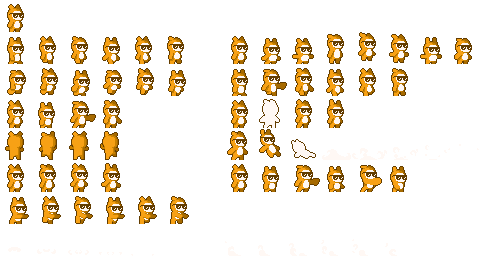
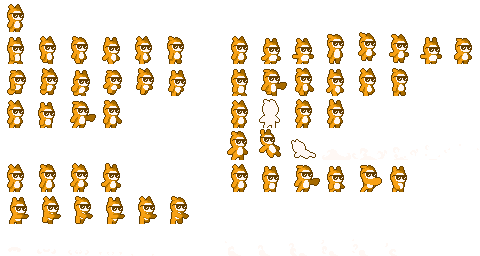
Bundle the new pet sheets so each drawn accessory shows its own art.
Вид 3 green still has only the hat, so that color still borrows it for the other two accessories.

Changed region(s): [[0.0, 0.5, 0.25, 0.625]]

diff --git a/src/ui/pet/petSprites.generated.ts b/src/ui/pet/petSprites.generated.ts
@@ -52,6 +52,10 @@ export const PET_SHEETS: Readonly<Record<string, PetSheet>> = {
     atlas: require("../../../assets/pets/atlas/sp1_c1_a2.png"),
     poses: require("../../../assets/pets/poses/sp1_c1_a2.png"),
   },
+  "sp1/c1/a3": {
+    atlas: require("../../../assets/pets/atlas/sp1_c1_a3.png"),
+    poses: require("../../../assets/pets/poses/sp1_c1_a3.png"),
+  },
   "sp1/c3/a1": {
     atlas: require("../../../assets/pets/atlas/sp1_c3_a1.png"),
     poses: require("../../../assets/pets/poses/sp1_c3_a1.png"),
@@ -60,6 +64,10 @@ export const PET_SHEETS: Readonly<Record<string, PetSheet>> = {
     atlas: require("../../../assets/pets/atlas/sp1_c3_a2.png"),
     poses: require("../../../assets/pets/poses/sp1_c3_a2.png"),
   },
+  "sp1/c3/a3": {
+    atlas: require("../../../assets/pets/atlas/sp1_c3_a3.png"),
+    poses: require("../../../assets/pets/poses/sp1_c3_a3.png"),
+  },
   "sp1/c2/a1": {
     atlas: require("../../../assets/pets/atlas/sp1_c2_a1.png"),
     poses: require("../../../assets/pets/poses/sp1_c2_a1.png"),
@@ -67,6 +75,14 @@ export const PET_SHEETS: Readonly<Record<string, PetSheet>> = {
   "sp1/c2/a2": {
     atlas: require("../../../assets/pets/atlas/sp1_c2_a2.png"),
     poses: require("../../../assets/pets/poses/sp1_c2_a2.png"),
+  },
+  "sp1/c2/a3": {
+    atlas: require("../../../assets/pets/atlas/sp1_c2_a3.png"),
+    poses: require("../../../assets/pets/poses/sp1_c2_a3.png"),
+  },
+  "sp2/c1/a1": {
+    atlas: require("../../../assets/pets/atlas/sp2_c1_a1.png"),
+    poses: require("../../../assets/pets/poses/sp2_c1_a1.png"),
   },
   "sp2/c1/a2": {
     atlas: require("../../../assets/pets/atlas/sp2_c1_a2.png"),
@@ -88,6 +104,10 @@ export const PET_SHEETS: Readonly<Record<string, PetSheet>> = {
     atlas: require("../../../assets/pets/atlas/sp2_c3_a3.png"),
     poses: require("../../../assets/pets/poses/sp2_c3_a3.png"),
   },
+  "sp2/c2/a1": {
+    atlas: require("../../../assets/pets/atlas/sp2_c2_a1.png"),
+    poses: require("../../../assets/pets/poses/sp2_c2_a1.png"),
+  },
   "sp2/c2/a2": {
     atlas: require("../../../assets/pets/atlas/sp2_c2_a2.png"),
     poses: require("../../../assets/pets/poses/sp2_c2_a2.png"),
@@ -95,6 +115,14 @@ export const PET_SHEETS: Readonly<Record<string, PetSheet>> = {
   "sp2/c2/a3": {
     atlas: require("../../../assets/pets/atlas/sp2_c2_a3.png"),
     poses: require("../../../assets/pets/poses/sp2_c2_a3.png"),
+  },
+  "sp3/c1/a1": {
+    atlas: require("../../../assets/pets/atlas/sp3_c1_a1.png"),
+    poses: require("../../../assets/pets/poses/sp3_c1_a1.png"),
+  },
+  "sp3/c1/a2": {
+    atlas: require("../../../assets/pets/atlas/sp3_c1_a2.png"),
+    poses: require("../../../assets/pets/poses/sp3_c1_a2.png"),
   },
   "sp3/c1/a3": {
     atlas: require("../../../assets/pets/atlas/sp3_c1_a3.png"),
@@ -107,6 +135,10 @@ export const PET_SHEETS: Readonly<Record<string, PetSheet>> = {
   "sp3/c2/a1": {
     atlas: require("../../../assets/pets/atlas/sp3_c2_a1.png"),
     poses: require("../../../assets/pets/poses/sp3_c2_a1.png"),
+  },
+  "sp3/c2/a2": {
+    atlas: require("../../../assets/pets/atlas/sp3_c2_a2.png"),
+    poses: require("../../../assets/pets/poses/sp3_c2_a2.png"),
   },
   "sp3/c2/a3": {
     atlas: require("../../../assets/pets/atlas/sp3_c2_a3.png"),

diff --git a/src/ui/__tests__/petVariants.test.ts b/src/ui/__tests__/petVariants.test.ts
@@ -41,20 +41,25 @@ describe("resolvePetVariant", () => {
   });
 
   it("resolves every species × color × accessory to a sheet that is bundled", () => {
+    const borrowed: string[] = [];
     for (const species of SPECIES_KEYS) {
       for (const color of COLOR_KEYS) {
         for (const accessory of ACCESSORY_KEYS) {
-          const resolved = resolvePetVariant({ species, color, accessory }, DRAWN_VARIANTS);
+          const requested = { species, color, accessory };
+          const resolved = resolvePetVariant(requested, DRAWN_VARIANTS);
           expect(PET_SHEETS[variantKey(resolved)]).toBeDefined();
-          // Andrei drew every species × color in some form, so the look never changes species or color.
+          // Every species × color is drawn in some form, so the look never changes species or color.
           expect(resolved).toMatchObject({ species, color });
+          if (variantKey(resolved) !== variantKey(requested)) borrowed.push(variantKey(requested));
         }
       }
     }
+    // Вид 3 green still has only the hat sheet.
+    expect(borrowed).toEqual(["sp3/c3/a1", "sp3/c3/a2"]);
   });
 
-  it("bundles all 17 drawn looks with the animations the pet plays", () => {
-    expect(DRAWN_VARIANTS.size).toBe(17);
+  it("bundles all 25 drawn looks with the animations the pet plays", () => {
+    expect(DRAWN_VARIANTS.size).toBe(25);
     expect(PET_ATLAS_LAYOUT).toMatchObject({
       idle: { frames: 4 },
       walk: { frames: 6 },
